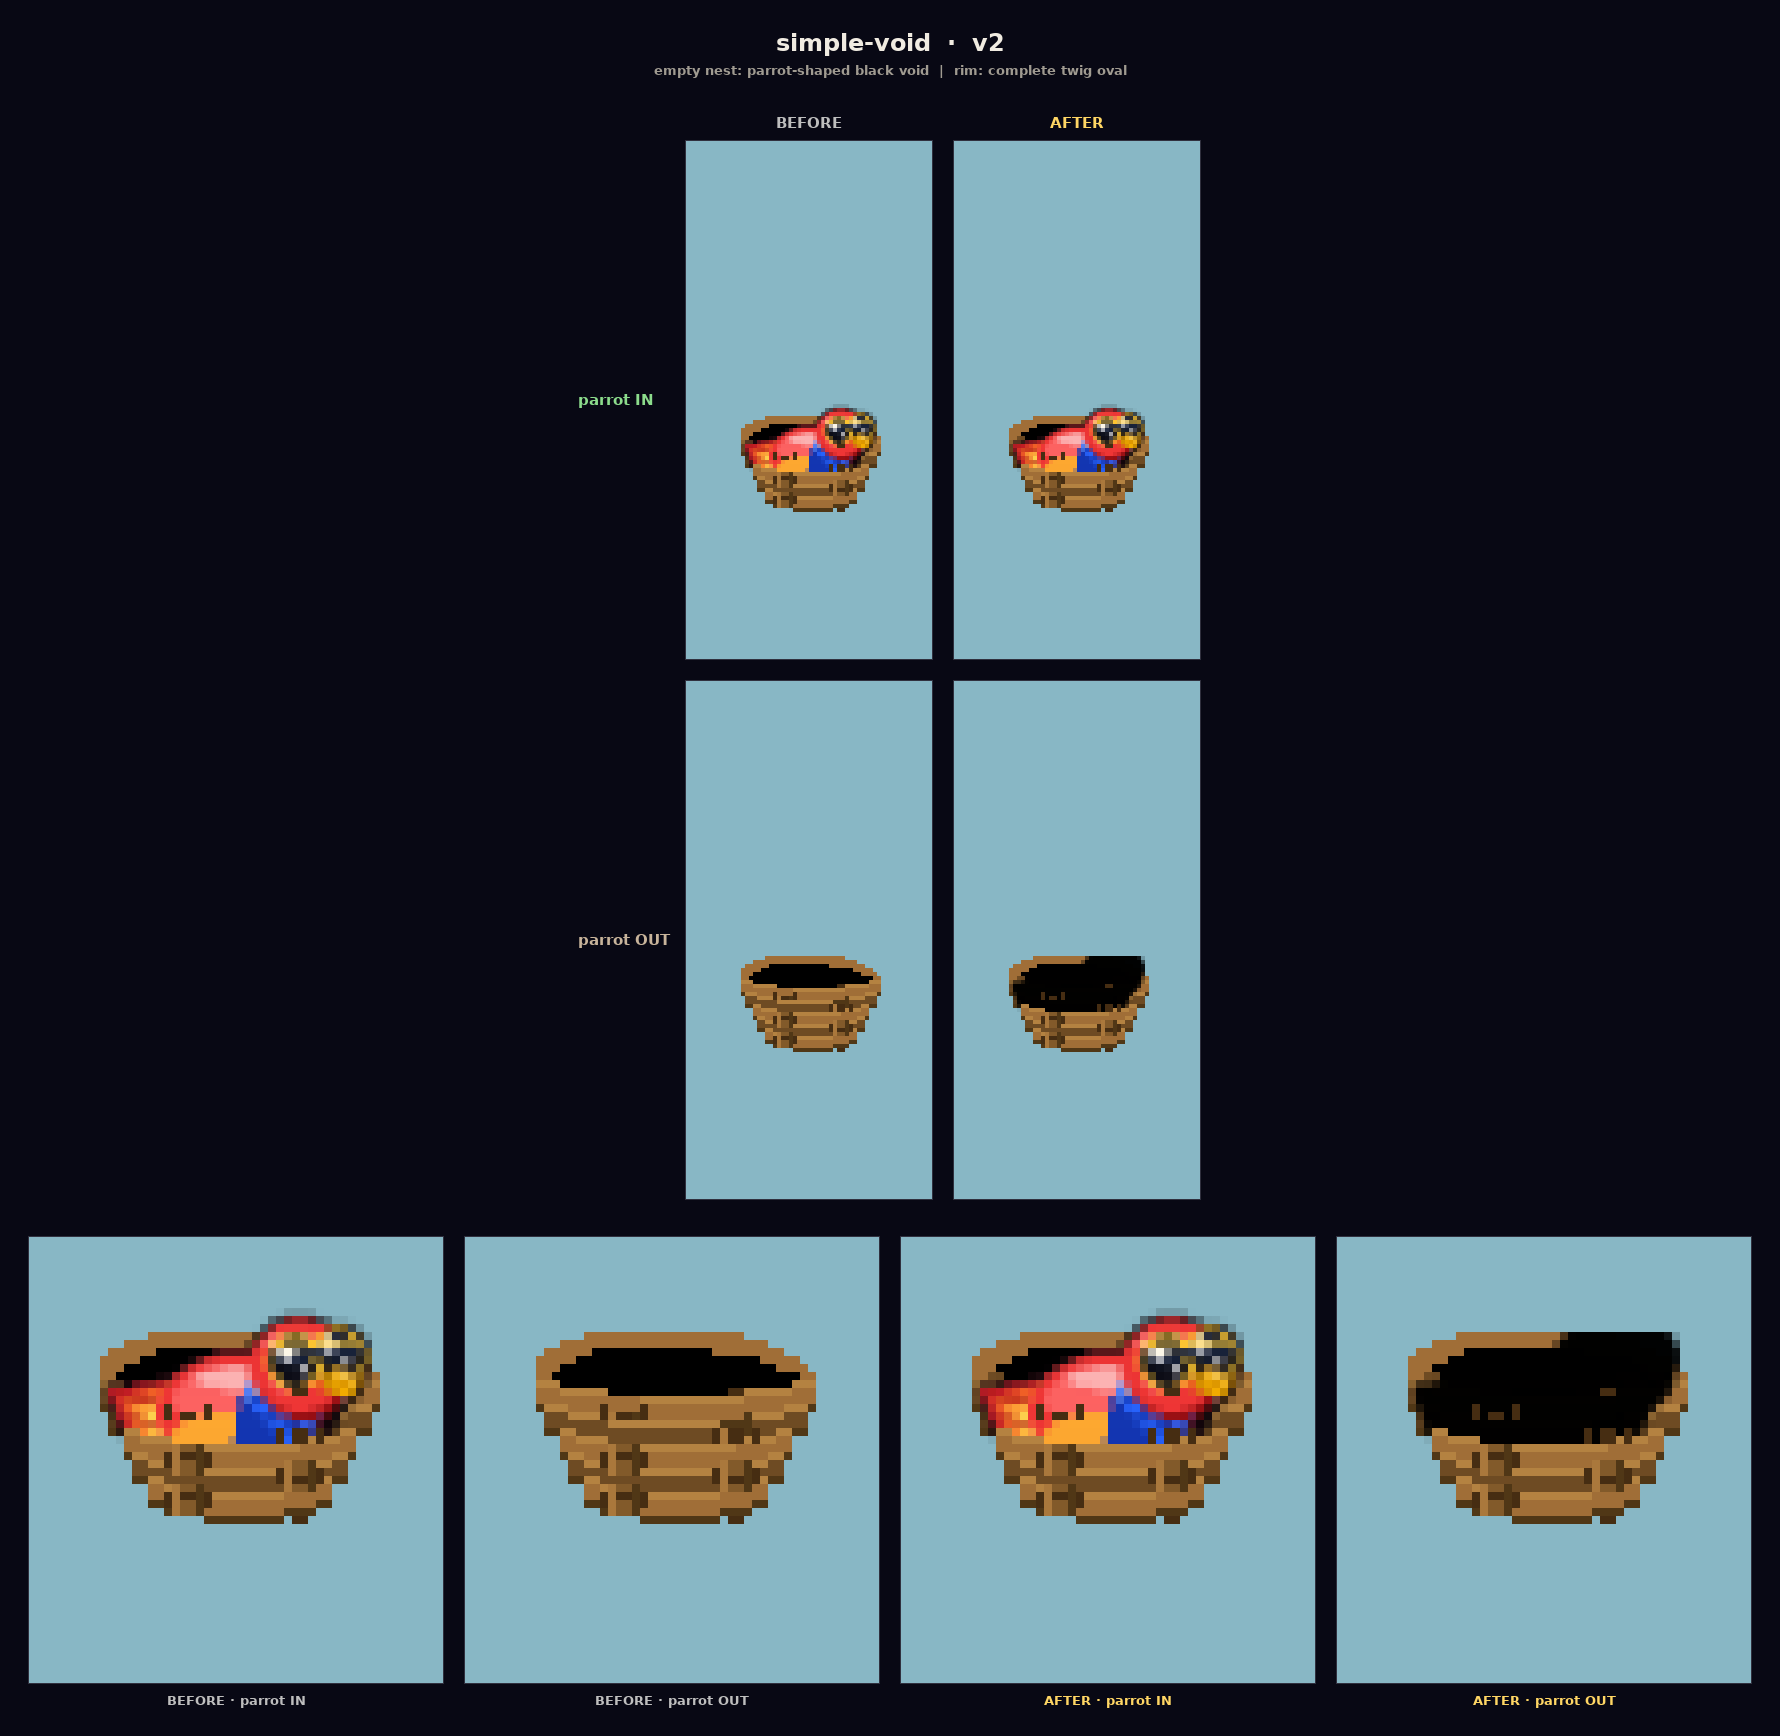
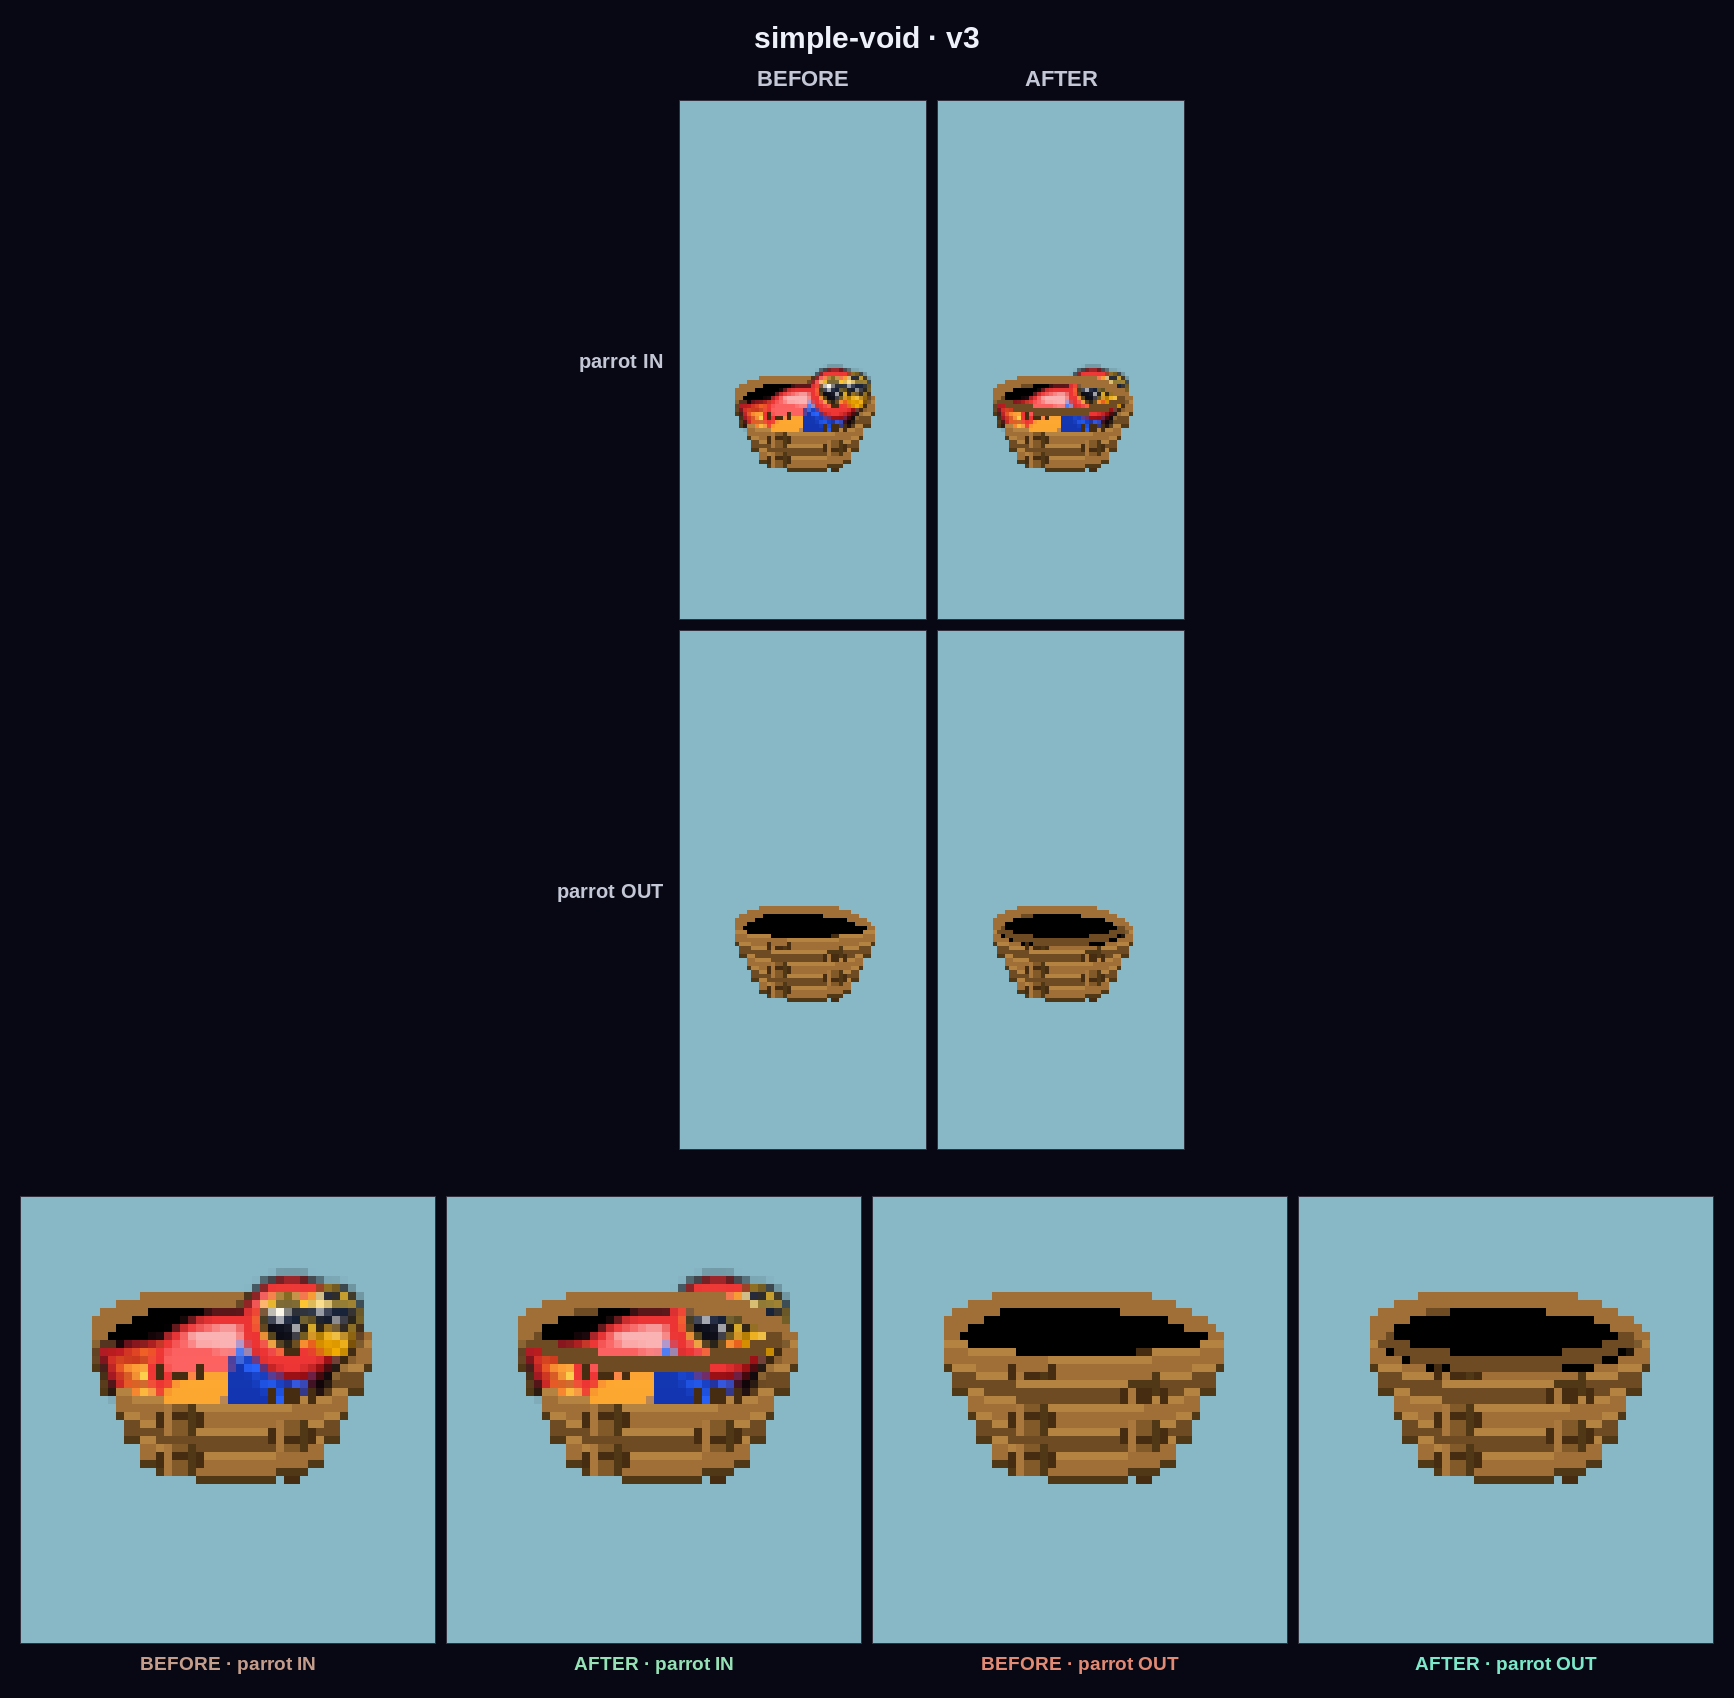
simple-void: regenerate comparison.png (v3)
Claude-Session: https://claude.ai/code/session_01SYxW5bMXxMEcZRx1arfvCN

diff --git a/docs/nest-alive-3d/simple-void/make_comparison.py b/docs/nest-alive-3d/simple-void/make_comparison.py
@@ -1,0 +1,130 @@
+"""Compose the simple-void v3 review sheet (2x2 BEFORE/AFTER grid + 8x zoom strip).
+
+Nearest-neighbour scaling throughout: this is a pixel-art slot, so smoothing
+would hide exactly the twig/rim detail the review is about.
+"""
+import os, sys
+
+os.environ.setdefault('SDL_VIDEODRIVER', 'offscreen')
+os.environ.setdefault('SDL_AUDIODRIVER', 'dummy')
+sys.path.insert(0, '/home/user/skybit')
+
+import pygame
+pygame.init()
+
+sys.path.insert(0, '/home/user/skybit/docs/nest-alive-3d/simple-void')
+import render as R
+
+SKY = R.SKY
+W, H = 62, 130
+CY = 73
+
+BG      = (8, 8, 20)
+HAIRUNE = (48, 48, 62)
+MUTED   = (196, 200, 214)
+TITLE_C = (238, 240, 250)
+
+GRID_ZOOM = 4
+ZOOM      = 8
+CROP      = pygame.Rect(5, 57, 52, 56)
+GAP       = 10
+MARGIN    = 20
+GUTTER    = 130
+
+FONT_PATH = '/home/user/skybit/game/assets/LiberationSans-Bold.ttf'
+f_title = pygame.font.Font(FONT_PATH, 30)
+f_head  = pygame.font.Font(FONT_PATH, 22)
+f_row   = pygame.font.Font(FONT_PATH, 20)
+f_tile  = pygame.font.Font(FONT_PATH, 19)
+
+
+def render_panel(fn, alive):
+    surf = pygame.Surface((W, H))
+    surf.fill(SKY)
+    fn(surf, CY, alive)
+    return surf
+
+
+before_in  = render_panel(R.draw_slot_before, True)
+after_in   = render_panel(R.draw_slot_after,  True)
+before_out = render_panel(R.draw_slot_before, False)
+after_out  = render_panel(R.draw_slot_after,  False)
+
+CELL_W, CELL_H = W * GRID_ZOOM, H * GRID_ZOOM
+TILE_W, TILE_H = CROP.w * ZOOM, CROP.h * ZOOM
+
+grid_w  = CELL_W * 2 + GAP
+strip_w = TILE_W * 4 + GAP * 3
+
+title_y  = MARGIN
+head_y   = title_y + 46
+grid_y   = head_y + 34
+grid_h   = CELL_H * 2 + GAP
+strip_y  = grid_y + grid_h + 46
+label_y  = strip_y + TILE_H + 8
+
+sheet_w = max(GUTTER + grid_w, strip_w) + MARGIN * 2
+sheet_h = label_y + 26 + MARGIN
+
+sheet = pygame.Surface((sheet_w, sheet_h))
+sheet.fill(BG)
+
+
+def centred(text, font, col, cx, y):
+    img = font.render(text, True, col)
+    sheet.blit(img, (cx - img.get_width() // 2, y))
+
+
+def right_aligned(text, font, col, rx, cy):
+    img = font.render(text, True, col)
+    sheet.blit(img, (rx - img.get_width(), cy - img.get_height() // 2))
+
+
+centred('simple-void · v3', f_title, TITLE_C, sheet_w // 2, title_y)
+
+grid_x = (sheet_w - grid_w + GUTTER) // 2
+if grid_x < MARGIN + GUTTER:
+    grid_x = MARGIN + GUTTER
+
+panels = ((before_in, after_in), (before_out, after_out))
+row_names = ('parrot IN', 'parrot OUT')
+
+for ri, row in enumerate(panels):
+    for ci, panel in enumerate(row):
+        x = grid_x + ci * (CELL_W + GAP)
+        y = grid_y + ri * (CELL_H + GAP)
+        sheet.blit(pygame.transform.scale(panel, (CELL_W, CELL_H)), (x, y))
+        pygame.draw.rect(sheet, HAIRUNE, (x, y, CELL_W, CELL_H), 1)
+    right_aligned(row_names[ri], f_row, MUTED,
+                  grid_x - 16, grid_y + ri * (CELL_H + GAP) + CELL_H // 2)
+
+for ci, head in enumerate(('BEFORE', 'AFTER')):
+    centred(head, f_head, MUTED, grid_x + ci * (CELL_W + GAP) + CELL_W // 2, head_y)
+
+strip_x = (sheet_w - strip_w) // 2
+tiles = (
+    (before_in,  'BEFORE · parrot IN',  (196, 158, 138)),
+    (after_in,   'AFTER · parrot IN',   (150, 226, 182)),
+    (before_out, 'BEFORE · parrot OUT', (226, 138, 116)),
+    (after_out,  'AFTER · parrot OUT',  (124, 234, 202)),
+)
+for ti, (panel, label, col) in enumerate(tiles):
+    x = strip_x + ti * (TILE_W + GAP)
+    crop = panel.subsurface(CROP).copy()
+    sheet.blit(pygame.transform.scale(crop, (TILE_W, TILE_H)), (x, strip_y))
+    pygame.draw.rect(sheet, HAIRUNE, (x, strip_y, TILE_W, TILE_H), 1)
+    centred(label, f_tile, col, x + TILE_W // 2, label_y)
+
+OUT = '/home/user/skybit/docs/nest-alive-3d/simple-void/comparison.png'
+pygame.image.save(sheet, OUT)
+print('saved', OUT, sheet.get_size())
+
+# ── Numeric verification (never open the image) ──────────────────────────────
+print('AFTER-OUT (31,74):', after_out.get_at((31, 74))[:3])
+bad = []
+for y in range(0, 70):
+    for x in range(W):
+        r, g, b = after_out.get_at((x, y))[:3]
+        if r < 30 and g < 30 and b < 30:
+            bad.append((x, y, r, g, b))
+print('dark pixels above y=69 in AFTER-OUT:', len(bad), bad[:8])
